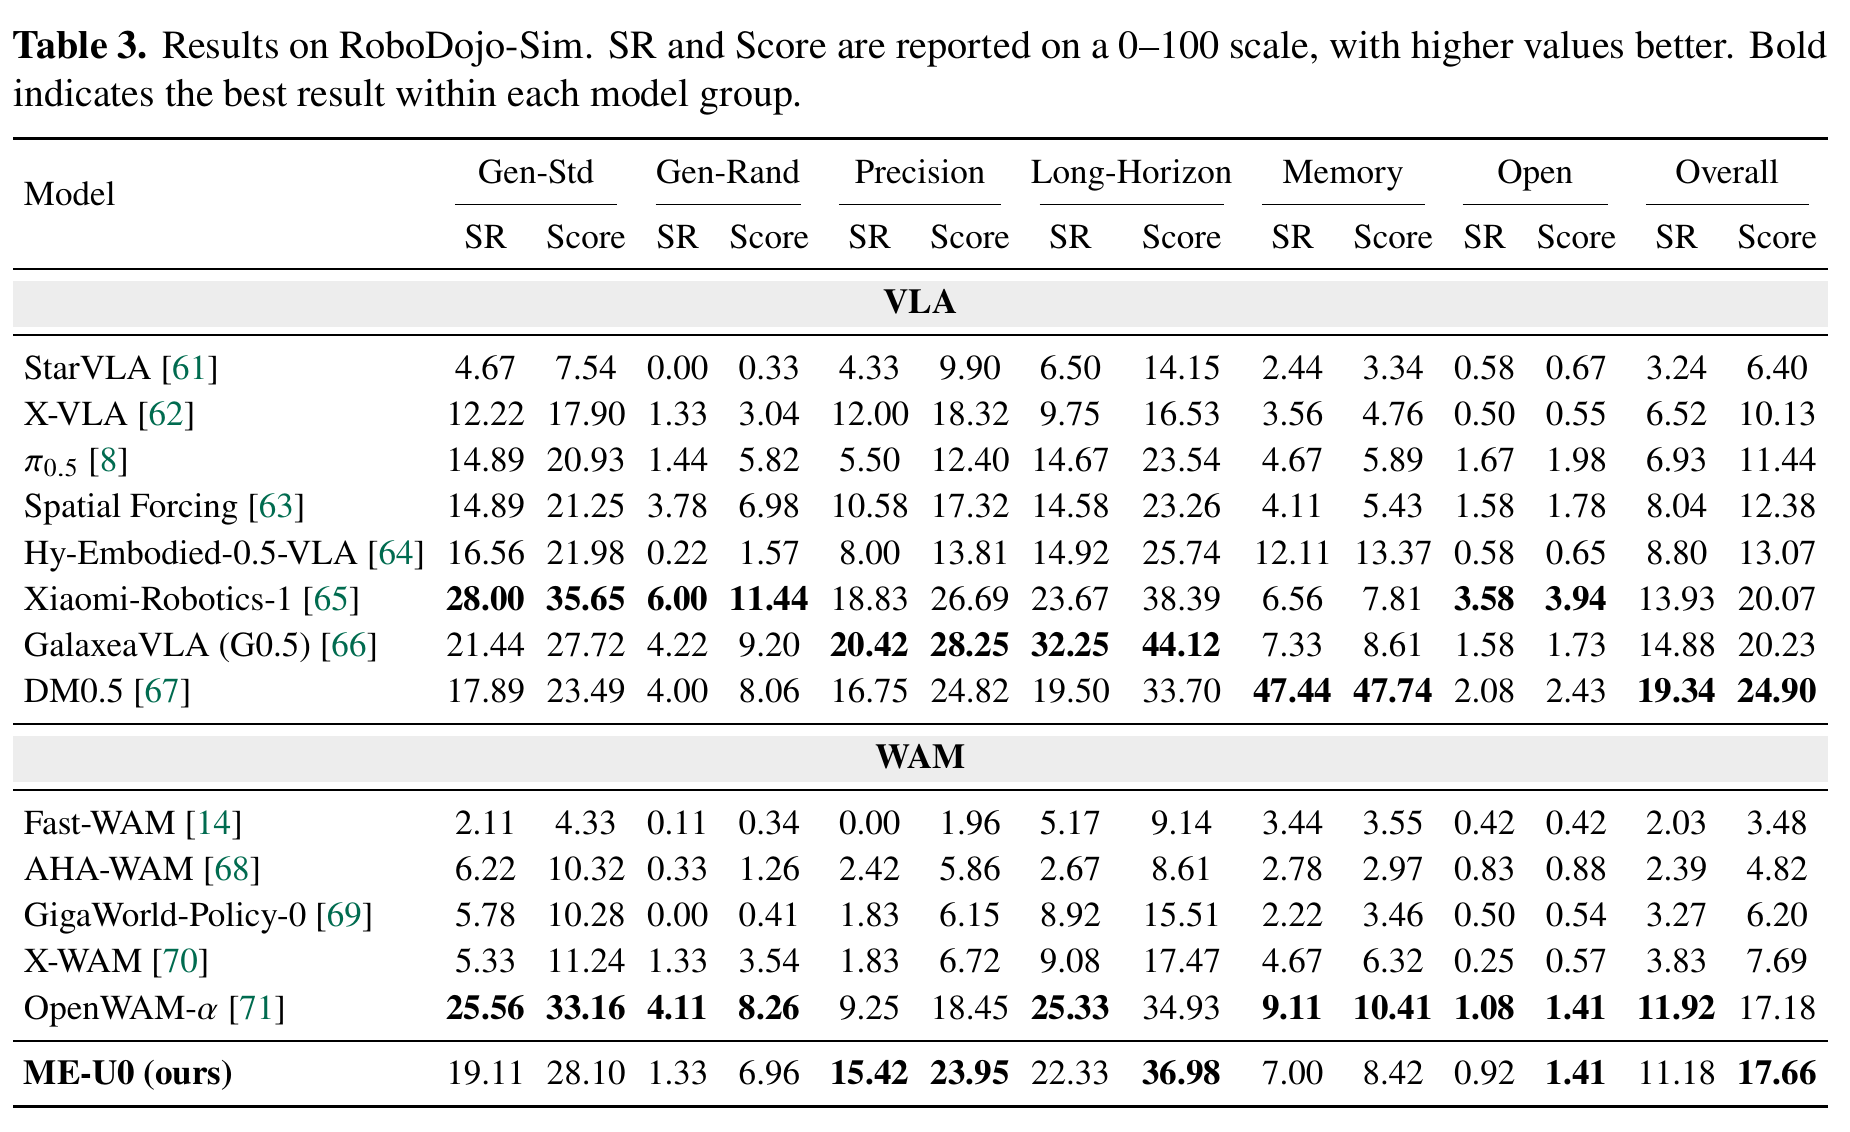
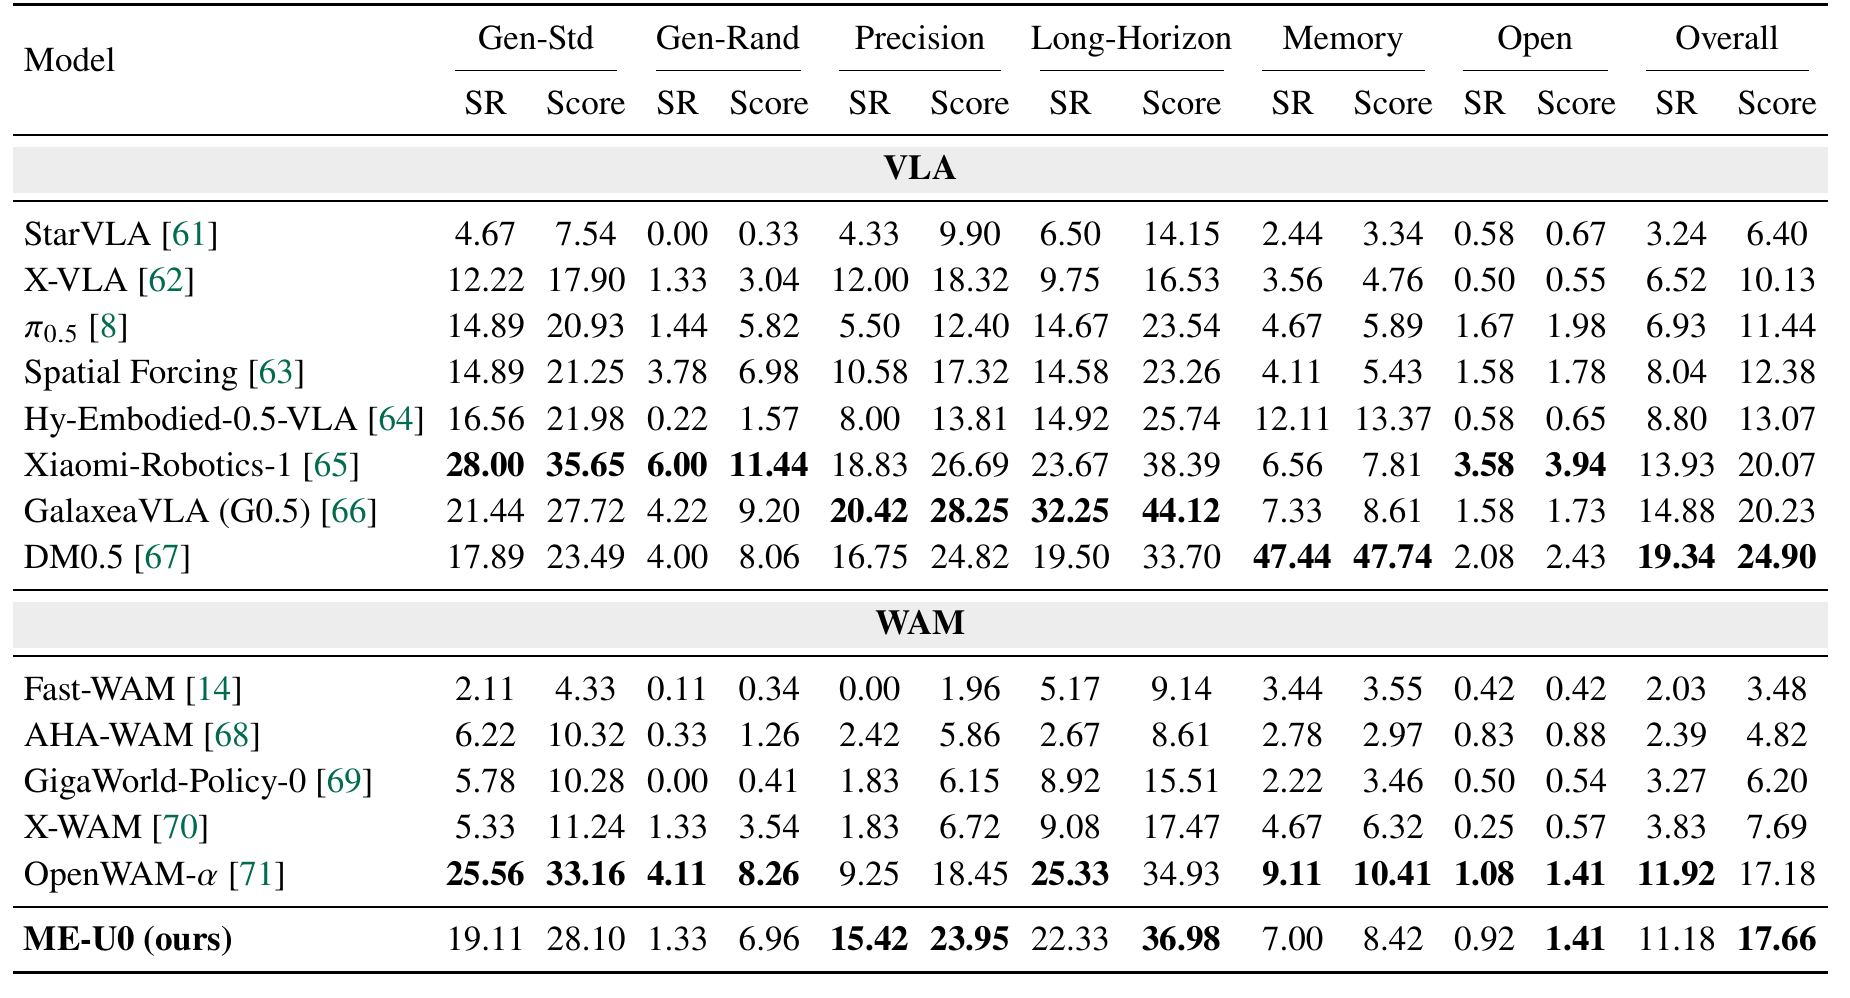
Move RoboDojo table caption into README text

Changed region(s): [[0.0, 0.0, 0.9859, 0.994], [0.0, 0.1553, 0.0616, 0.1864]]

diff --git a/README.md b/README.md
@@ -34,6 +34,8 @@ The understanding expert predicts subtasks and affordances, while the generation
 
 ## RoboDojo-Sim Benchmark
 
+**Table 3.** Results on RoboDojo-Sim. SR and Score are reported on a 0–100 scale; bold indicates the best result within each model group.
+
 <p align="center">
   <img src="assets/robodojo-sim-results.png" alt="RoboDojo-Sim benchmark results from Table 3 of the ME-U0 technical report, with VLA and WAM groups, success rates and scores" width="100%">
 </p>
